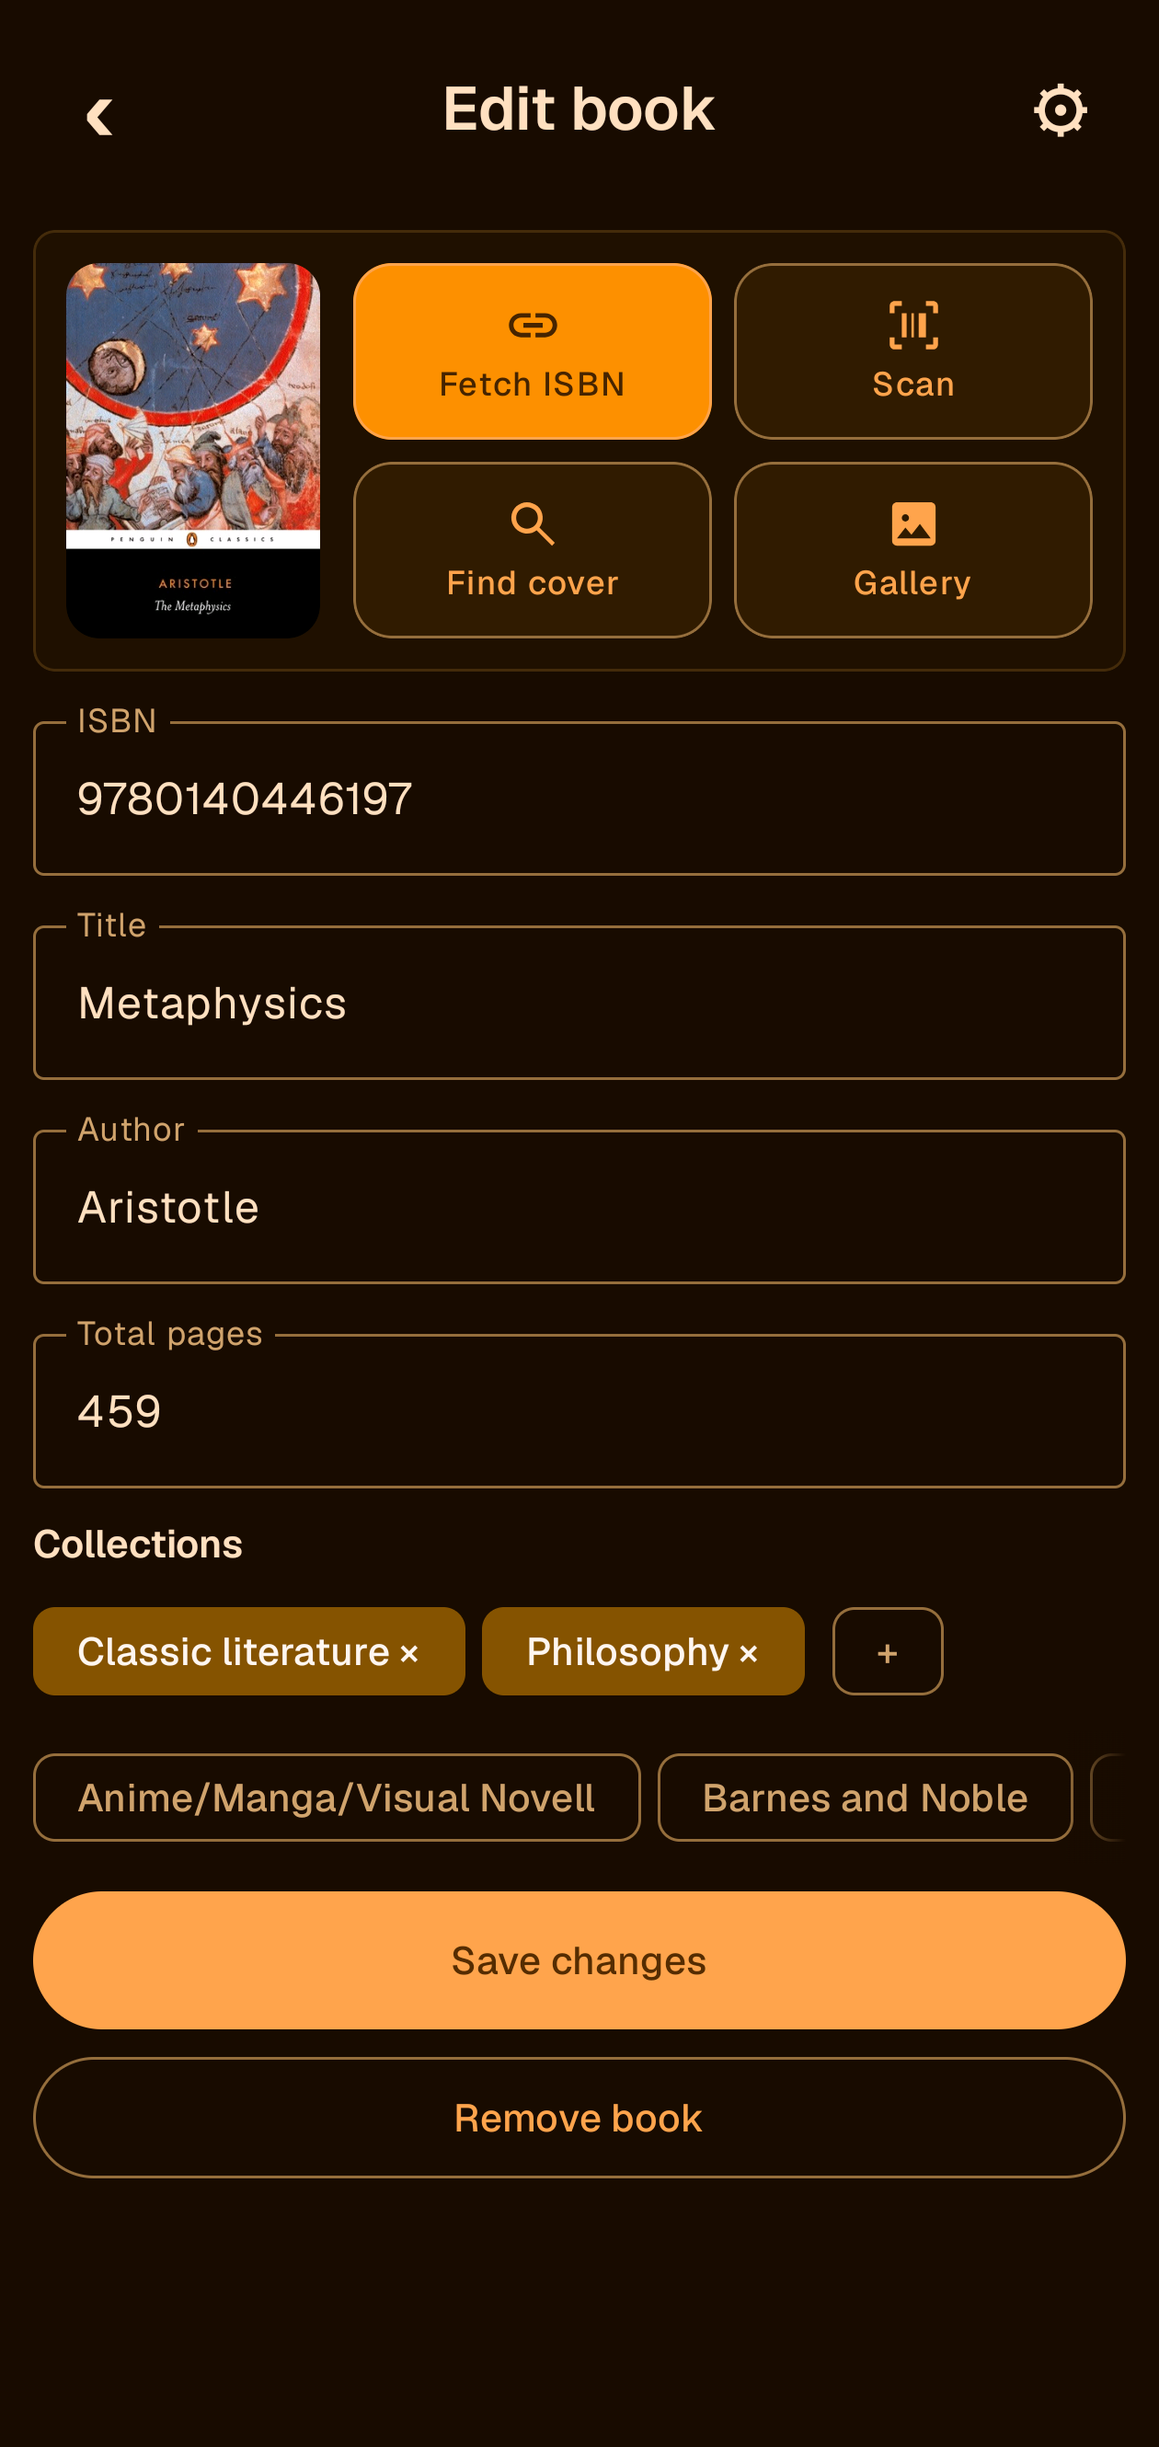
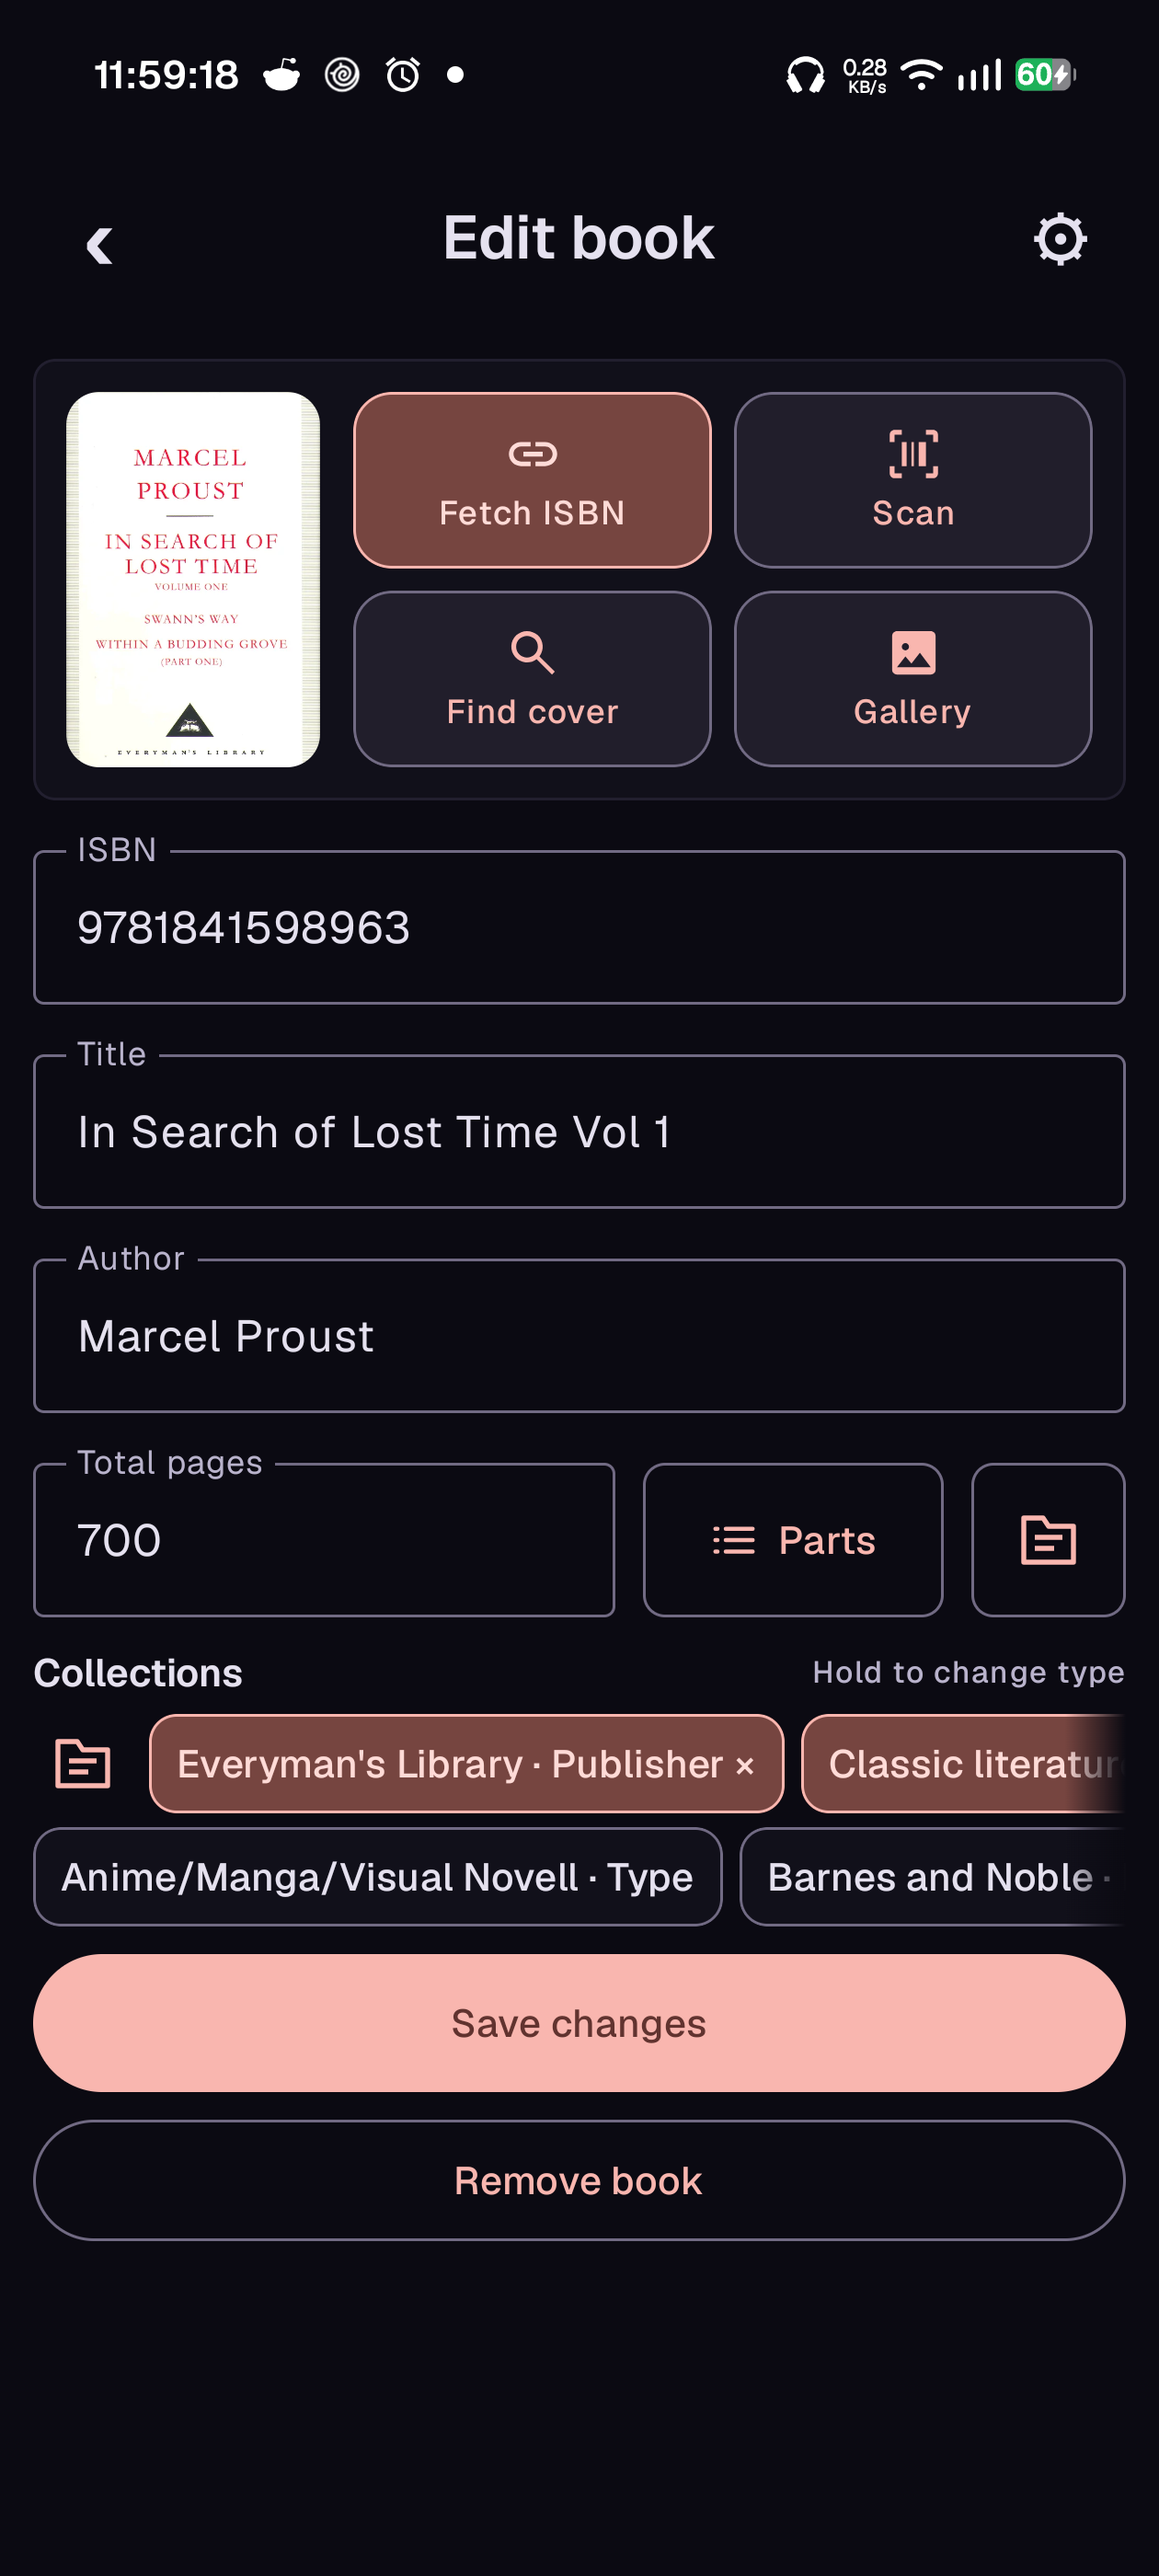
Refresh README screenshots from the real Book Tracker library

diff --git a/README.md b/README.md
@@ -8,22 +8,24 @@ An Android reading journal for books, reading plans, sessions, notes and persona
 
 ## Screenshots
 
-<img src="docs/screenshots/settings-1.2.png" width="320" alt="Book Tracker 1.2 Settings categories"> <img src="docs/screenshots/about-1.2.png" width="320" alt="Book Tracker 1.2 version and build">
+Book Tracker 1.2 on a real device, with the maintainer's own library and reading history.
 
 <table>
-<tr><th>Stats</th><th>Library</th></tr>
-<tr><td><img src="docs/screenshots/stats.png" width="320" alt="Stats"></td><td><img src="docs/screenshots/library.png" width="320" alt="Library"></td></tr>
-<tr><th>Book details</th><th>Edit book</th></tr>
-<tr><td><img src="docs/screenshots/book-details.png" width="320" alt="Book details"></td><td><img src="docs/screenshots/edit-book.png" width="320" alt="Edit book"></td></tr>
+<tr><th>Library</th><th>Gallery</th></tr>
+<tr><td><img src="docs/screenshots/library.png" width="320" alt="Library list with current books and reading progress"></td><td><img src="docs/screenshots/library-gallery.png" width="320" alt="Gallery of current books with covers"></td></tr>
+<tr><th>Stats</th><th>Reading recap</th></tr>
+<tr><td><img src="docs/screenshots/stats.png" width="320" alt="October 2026 reading statistics and heatmap"></td><td><img src="docs/screenshots/reading-recap.png" width="320" alt="October reading recap with totals, records and finished books"></td></tr>
+<tr><th>Reading plans</th><th>Yearly reading list export</th></tr>
+<tr><td><img src="docs/screenshots/reading-plans.png" width="320" alt="2026 reading plan with priority tiers and remaining reading estimates"></td><td><img src="docs/screenshots/reading-list-export.png" width="320" alt="Image export preview of the library grouped by reading year"></td></tr>
+<tr><th>Book details</th><th>Reading map</th></tr>
+<tr><td><img src="docs/screenshots/book-details.png" width="320" alt="Book details with progress, reading goal, pace and session history"></td><td><img src="docs/screenshots/reading-map.png" width="320" alt="Reading map connecting 147 books across 17 collection families"></td></tr>
 <tr><th>Reading goals</th><th>Reading progress</th></tr>
-<tr><td><img src="docs/screenshots/reading-goals.png" width="320" alt="Reading goals"></td><td><img src="docs/screenshots/reading-progress.png" width="320" alt="Reading progress"></td></tr>
+<tr><td><img src="docs/screenshots/reading-goals.png" width="320" alt="Daily, monthly and yearly reading goals"></td><td><img src="docs/screenshots/reading-progress.png" width="320" alt="Monthly reading progress and completed compendium parts"></td></tr>
 <tr><th>Author trends</th><th>Collection trends</th></tr>
 <tr><td><img src="docs/screenshots/trends-authors.png" width="320" alt="Author trends"></td><td><img src="docs/screenshots/trends-collections.png" width="320" alt="Collection trends"></td></tr>
-<tr><th>Contents scanning</th><th>Google Drive backup</th></tr>
-<tr><td><img src="docs/screenshots/contents-scanning.png" width="320" alt="Review scanned compendium titles and page numbers"></td><td><img src="docs/screenshots/drive-backup.png" width="320" alt="Optional Google Drive backup controls"></td></tr>
+<tr><th>Settings</th><th>About</th></tr>
+<tr><td><img src="docs/screenshots/settings-1.2.png" width="320" alt="Book Tracker 1.2 Settings categories"></td><td><img src="docs/screenshots/about-1.2.png" width="320" alt="Book Tracker 1.2 version and build"></td></tr>
 </table>
-
-<img src="docs/screenshots/reading.png" width="320" alt="Active reading session">
 
 ## Features
 
